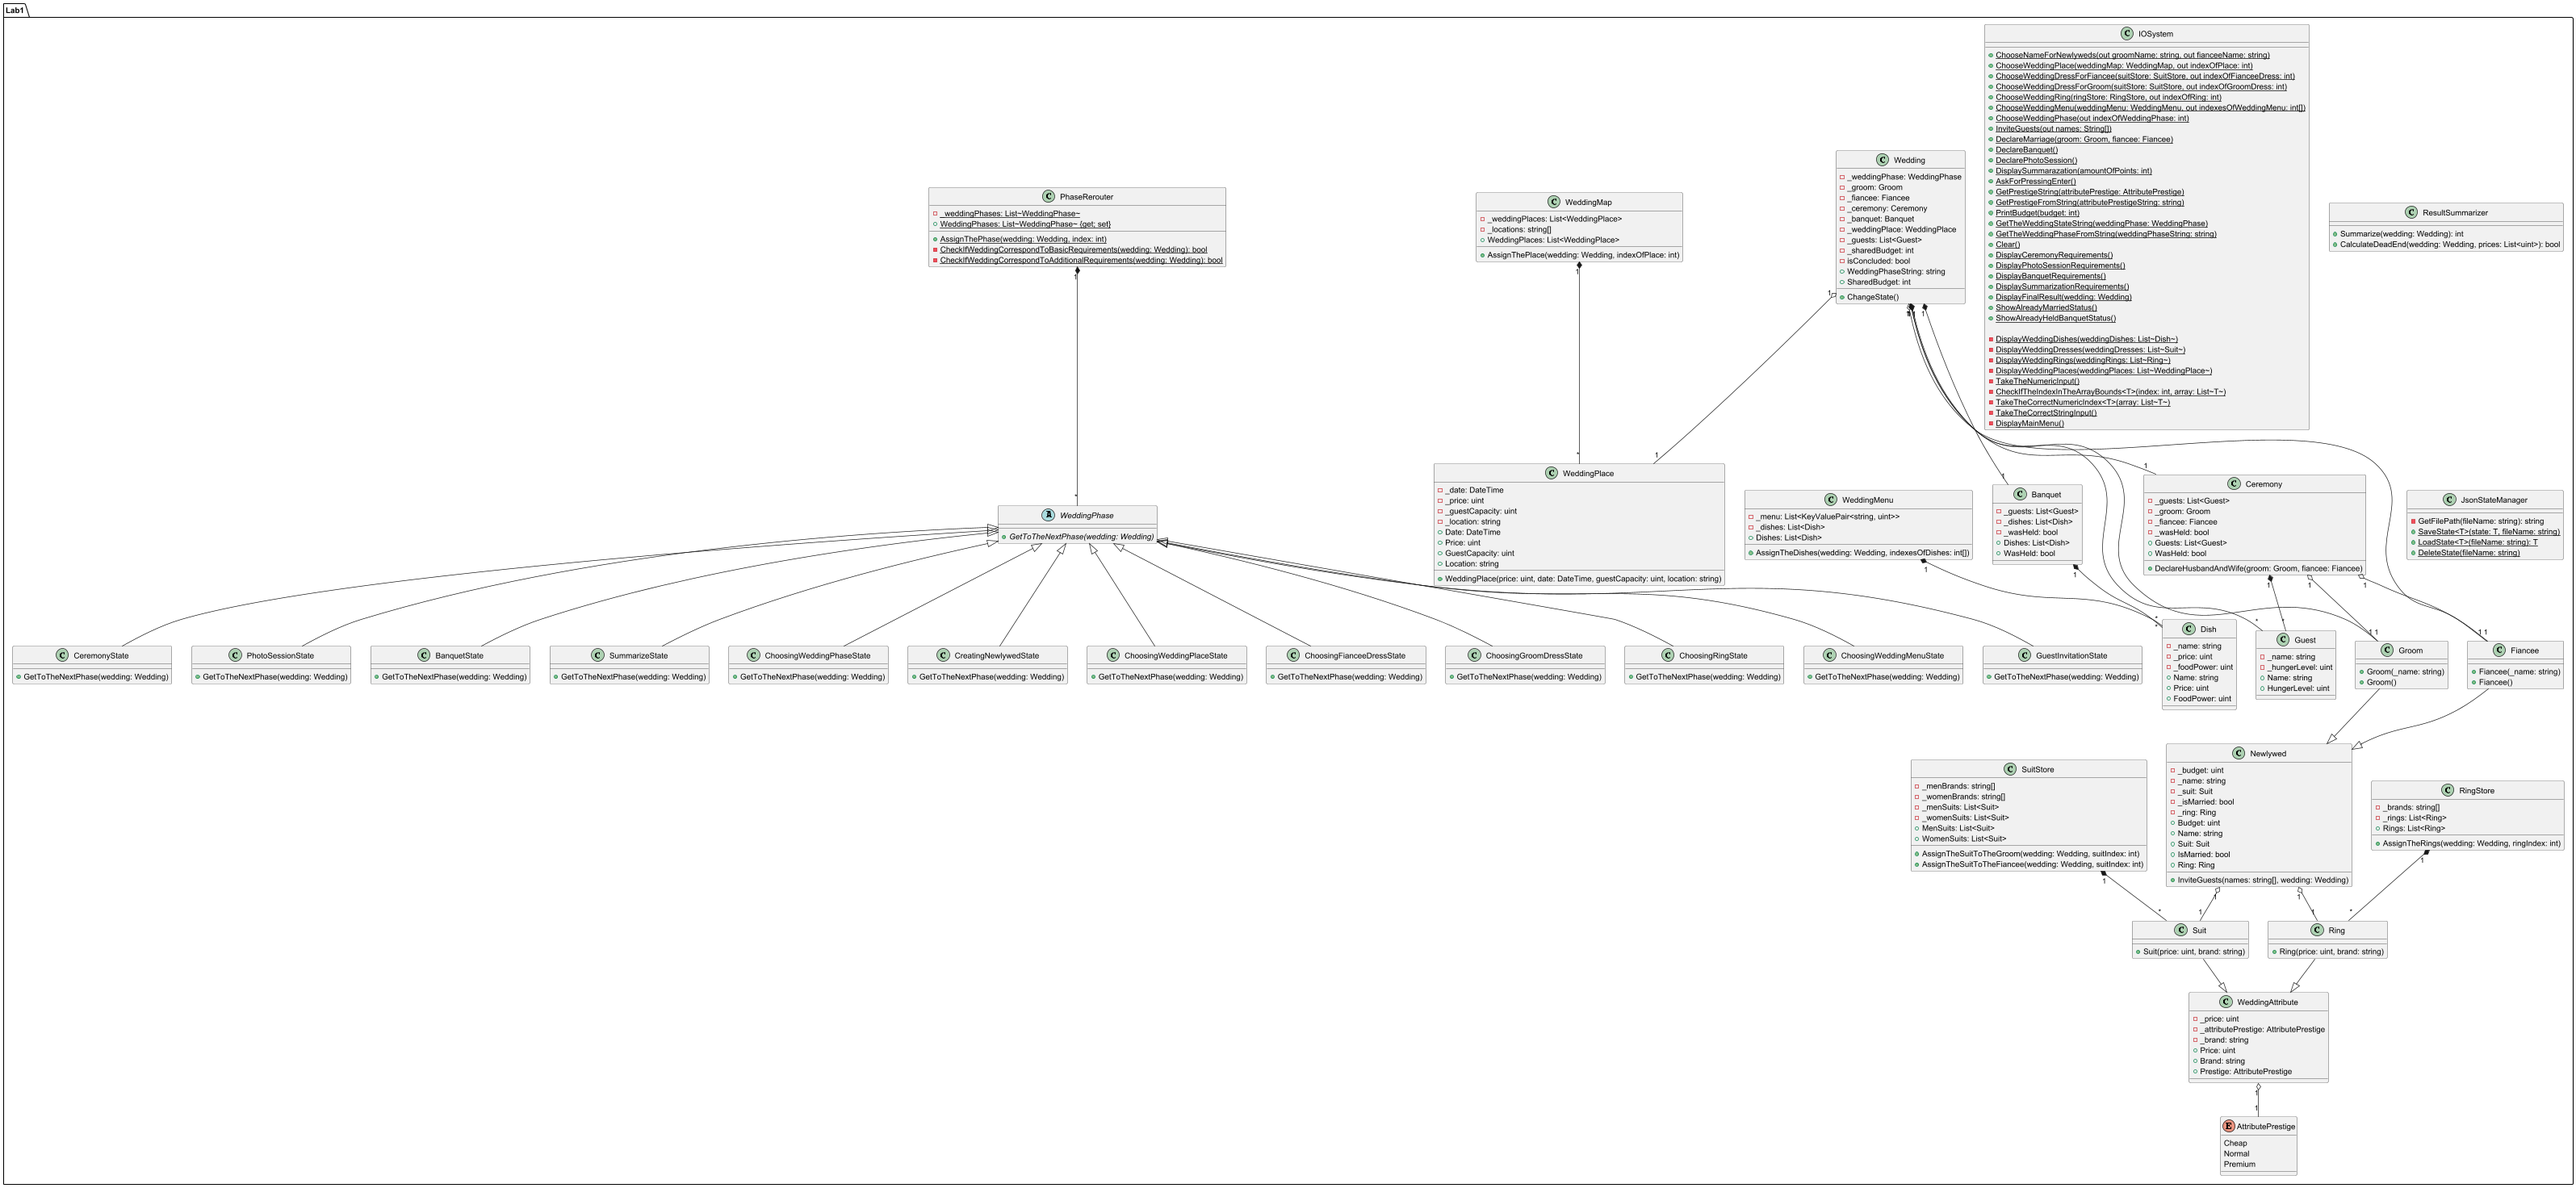
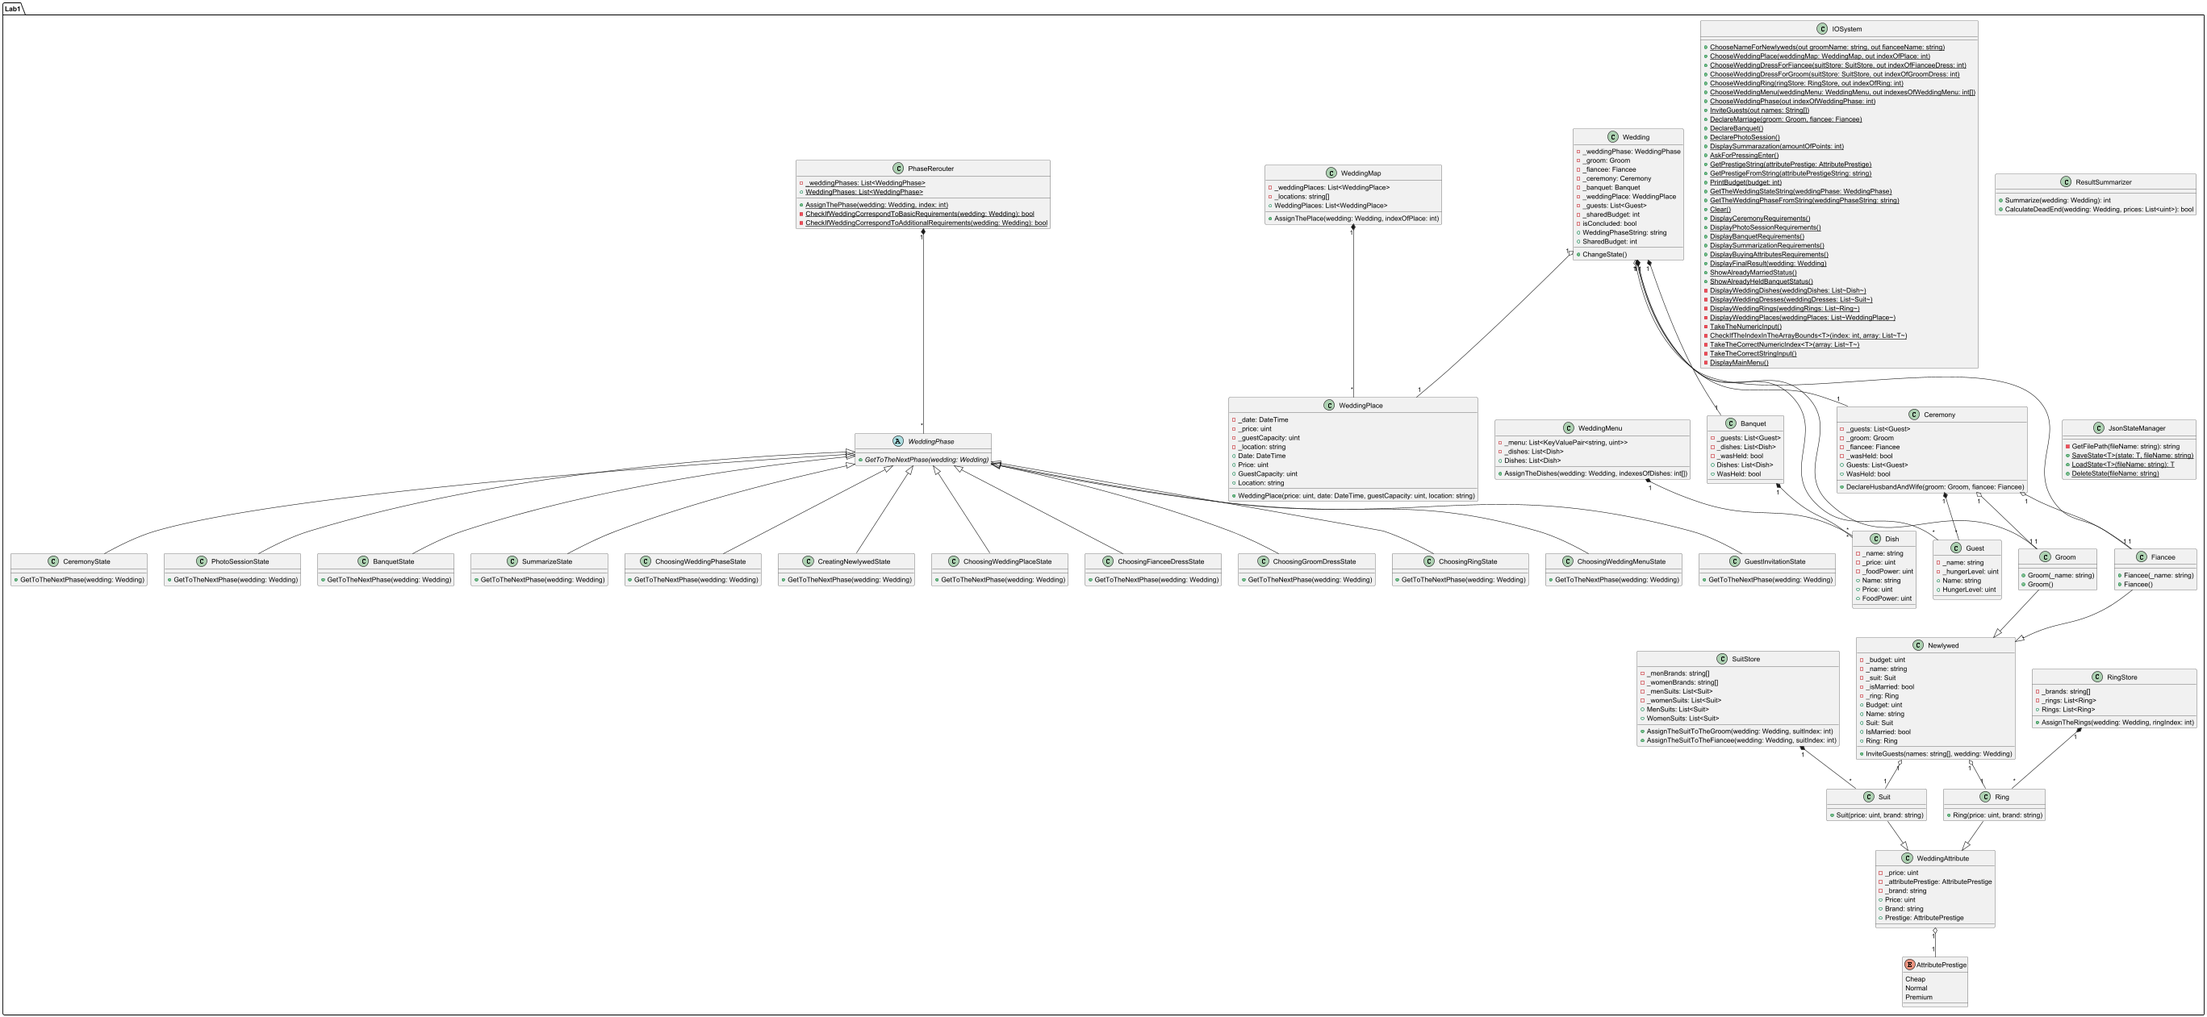
final vesrsion i hope

diff --git a/Lab1/Lab1/PhaseRerouter.cs b/Lab1/Lab1/PhaseRerouter.cs
@@ -10,46 +10,50 @@ public static class PhaseRerouter
     public static void AssignThePhase(Wedding wedding, int index)
     {
         wedding.CurrentWeddingPhase = _weddingPhases[index];
-        
-        if (!CheckIfWeddingCorrespondToBasicRequirements(wedding))
+
+
+        switch (wedding.CurrentWeddingPhase)
         {
-            switch (wedding.CurrentWeddingPhase)
-            {
-                case CeremonyState ceremonyState:
-                    IOSystem.DisplayCeremonyRequirements();
-                    break;
-                case PhotoSessionState photoSessionState:
+            case ChoosingRingState:
+            case ChoosingFianceeDressState:
+            case ChoosingGroomDressState:
+                if (!CheckIfTheWeddingHasGroomAndFiancee(wedding))
+                {
+                    IOSystem.DisplayBuyingAttributesRequirements();
+                    wedding.CurrentWeddingPhase = new ChoosingWeddingPhaseState();
+                }
+                break;
+            case PhotoSessionState:
+                if (!CheckIfWeddingCorrespondToBasicRequirements(wedding))
+                {
                     IOSystem.DisplayPhotoSessionRequirements();
-                    break;
-                case BanquetState banquetState:
-                    IOSystem.DisplayBanquetRequirements();
-                    break;
-                case SummarizeState summarizeState:
-                    IOSystem.DisplaySummarizationRequirements();
-                    break;
-                default:
-                    return;
-            }
-            wedding.CurrentWeddingPhase = new ChoosingWeddingPhaseState();
-        }
-        else if (!CheckIfWeddingCorrespondToAdditionalRequirements(wedding))
-        {
-            switch (wedding.CurrentWeddingPhase)
-            {
-                case CeremonyState ceremonyState:
+                    wedding.CurrentWeddingPhase = new ChoosingWeddingPhaseState();
+                }
+
+                break;
+            case CeremonyState:
+                if (!CheckIfWeddingCorrespondToAdditionalRequirements(wedding))
+                {
                     IOSystem.DisplayCeremonyRequirements();
-                    break;
-                case BanquetState banquetState:
+                wedding.CurrentWeddingPhase = new ChoosingWeddingPhaseState();
+                }
+                break;
+            case BanquetState:
+                if (!CheckIfWeddingCorrespondToAdditionalRequirements(wedding))
+                {
                     IOSystem.DisplayBanquetRequirements();
-                    break;
-                case SummarizeState summarizeState:
+                wedding.CurrentWeddingPhase = new ChoosingWeddingPhaseState();
+                }
+                break;
+            case SummarizeState:
+                if (!CheckIfWeddingCorrespondToAdditionalRequirements(wedding))
+                {
                     IOSystem.DisplaySummarizationRequirements();
-                    break;
-                default:
-                    return;
-            }
-            wedding.CurrentWeddingPhase = new ChoosingWeddingPhaseState();
+                wedding.CurrentWeddingPhase = new ChoosingWeddingPhaseState();
+                }
+                break;
         }
+        
     }
 
     private static bool CheckIfWeddingCorrespondToBasicRequirements(Wedding wedding)
@@ -63,6 +67,13 @@ public static class PhaseRerouter
     private static bool CheckIfWeddingCorrespondToAdditionalRequirements(Wedding wedding)
     {
         if(wedding.Guests.Count == 0 || wedding.Banquet.Dishes.Count == 0)
+            return false;
+        return true;
+    }
+
+    private static bool CheckIfTheWeddingHasGroomAndFiancee(Wedding wedding)
+    {
+        if(wedding.Groom == null || wedding.Fiancee == null)
             return false;
         return true;
     }

diff --git a/Lab1/Lab1/IOSystem.cs b/Lab1/Lab1/IOSystem.cs
@@ -245,7 +245,7 @@ public static class IOSystem
 
     private static bool CheckIfTheIndexInTheArrayBounds<T>(int index, List<T> array)
     {
-        if(index > array.Count || index < 0)
+        if(index > array.Count || index <= 0)
             return false;
         return true;
     }
@@ -313,6 +313,10 @@ public static class IOSystem
     public static void DisplaySummarizationRequirements()
     {
         Console.WriteLine("For summarization you at least must choose names for newlyweds, rings, suits, place, guests and dishes ");
+    }
+    public static void DisplayBuyingAttributesRequirements()
+    {
+        Console.WriteLine("For buying wedding attributes you at least must choose names for newlyweds");
     }
 
     public static void DisplayFinalResult(Wedding wedding)

diff --git a/Lab1/Lab1/GuestInvitationState.cs b/Lab1/Lab1/GuestInvitationState.cs
@@ -6,7 +6,7 @@ public class GuestInvitationState : WeddingPhase
     {
         JsonStateManager.SaveState(wedding, "WeddingState.json");
         IOSystem.InviteGuests(out string[] names);
-        wedding.Fiancee.InviteGuests(names, wedding);
+        Newlywed.InviteGuests(names, wedding);
         IOSystem.Clear();
         wedding.CurrentWeddingPhase = new ChoosingWeddingPhaseState();;
     }

diff --git a/Lab1/Lab1/Newlywed.cs b/Lab1/Lab1/Newlywed.cs
@@ -22,7 +22,7 @@ public class Newlywed
         _name = name;
     }
 
-    public void InviteGuests(string[] names, Wedding wedding)
+    public static void InviteGuests(string[] names, Wedding wedding)
     {
         try
         {

diff --git a/Lab1/README.md b/Lab1/README.md
@@ -1,19 +1,19 @@
 # Модель свадьбы
 
-## 1. Основной класс
+## 1. Основные классы
 
 ### Wedding
 **Описание**: Класс, представляющий свадьбу. Управляет процессами и состояниями.
-- **Свойства**:
-  - `WeddingPhase` – текущее состояние свадьбы.
-  - `Groom` – жених.
-  - `Fiancee` – невеста.
-  - `Ceremony` – церемония.
-  - `Banquet` – банкет.
-  - `WeddingPlace` – место проведения свадьбы.
-  - `Guests` – список гостей.
-  - `SharedBudget` – общий бюджет свадьбы.
-  - `IsConcluded` – завершена ли свадьба.
+- **Поля**:
+  - `_currentCurrentWeddingPhase` – текущее состояние свадьбы.
+  - `_groom` – жених.
+  - `_fiancee` – невеста.
+  - `_ceremony` – церемония.
+  - `_banquet` – банкет.
+  - `_weddingPlace` – место проведения свадьбы.
+  - `_guests` – список гостей.
+  - `_sharedBudget` – общий бюджет свадьбы.
+  - `_isConcluded` – завершена ли свадьба.
 - **Методы**:
   - `ChangeState()` – меняет текущее состояние свадьбы.
 
@@ -21,6 +21,14 @@
 **Описание**: Базовый класс для состояний свадьбы.
 - **Методы**:
   - `GetToTheNextPhase(Wedding wedding)` – переходит в следующее состояние.
+
+  ### PhaseRerouter
+**Описание**: Класс переключающий состояния свадьбы.
+- **Поля**:
+ - `_weddingPhases` – массив состояний свадьбы.
+- **Методы**:
+  - `AssignThePhase(Wedding wedding, int index)` – Выбирает следующее состояние в зависимости от ввода пользователя.
+
 
 ## 2. Состояния свадьбы
 
@@ -57,14 +65,17 @@
 ### SummarizeState
 **Описание**: Подведение итогов, начисление очков.
 
+### ChoosingWeddingPhaseState
+**Описание**: Состояние, в котором пользователю даётся выбор состояния.
+
 ## 3. Атрибуты свадьбы
 
 ### WeddingAttribute
 **Описание**: Базовый класс для свадебных атрибутов (костюмов, колец).
-- **Свойства**:
-  - `Price` – цена.
-  - `Brand` – бренд.
-  - `Prestige` – престижность (Cheap, Normal, Premium).
+- **Поля**:
+  - `_price` – цена.
+  - `_brand` – бренд.
+  - `_attributePrestige` – престижность (Cheap, Normal, Premium).
 
 ### Ring
 **Описание**: Класс обручального кольца.
@@ -78,38 +89,40 @@
 
 ### Guest
 **Описание**: Класс гостя.
-- **Свойства**:
-  - `Name` – имя гостя.
-  - `HungerLevel` – уровень голода.
+- **Поля**:
+  - `_name` – имя гостя.
+  - `_hungerLevel` – уровень голода.
 
 ### Dish
 **Описание**: Блюдо свадебного меню.
-- **Свойства**:
-  - `Name` – название.
-  - `Price` – цена.
-  - `FoodPower` – уровень насыщения.
+- **Поля**:
+  - `_name` – название.
+  - `_price` – цена.
+  - `_foodPower` – уровень насыщения.
 
 ## 5. Магазины и выбор
 
 ### RingStore
 **Описание**: Магазин обручальных колец.
-- **Свойства**:
-  - `Rings` – список доступных колец.
+- **Поля**:
+  - `_rings` – список доступных колец.
+  - `_brands` – список доступных брендов.
 - **Методы**:
   - `AssignTheRings(Wedding wedding, int ringIndex)` – назначает кольца жениху и невесте.
 
 ### SuitStore
 **Описание**: Магазин свадебных костюмов.
-- **Свойства**:
-  - `MenSuits`, `WomenSuits` – списки мужских и женских костюмов.
+- **Поля**:
+  - `_menSuits`, `_womenSuits` – списки мужских и женских костюмов.
+  - `_menBrands`, `_womenBrands` – списки мужских и женских брендов.
 - **Методы**:
   - `AssignTheSuitToTheGroom(Wedding wedding, int suitIndex)` – назначает костюм жениху.
   - `AssignTheSuitToTheFiancee(Wedding wedding, int suitIndex)` – назначает платье невесте.
 
 ### WeddingMenu
 **Описание**: Меню свадебного банкета.
-- **Свойства**:
-  - `Dishes` – список доступных блюд.
+- **Поля**:
+  - `_dishes` – список доступных блюд.
 - **Методы**:
   - `AssignTheDishes(Wedding wedding, int[] indexesOfDishes)` – назначает блюда свадебному банкету.
 
@@ -117,13 +130,16 @@
 
 ### Ceremony
 **Описание**: Проведение свадебной церемонии.
+- **Поля**:
+  - `_guests` – список гостей.
 - **Методы**:
   - `DeclareHusbandAndWife(Groom groom, Fiancee fiancee)` – провозглашает пару мужем и женой.
 
 ### Banquet
 **Описание**: Проведение банкета.
-- **Свойства**:
-  - `Dishes` – блюда банкета.
+- **Поля**:
+  - `_dishes` – блюда банкета.
+  - `_guests` – гости банкета.
 
 ## 7. Подведение итогов
 
@@ -170,8 +186,15 @@
   - `TakeTheNumericInput : int` – извлечение корректного ввода.
   - `CheckIfTheIndexInTheArrayBounds<T>(int index, List<T> array) : bool` – проверка на соответсвие введённого индекса размера массива.
   - `TakeTheCorrectNumericIndex<T>(List<T> array) : int` – извлечение корректного числового ввода.
-  - `Clear()` – очистка консоли.
-
+  - `DisplayMainMenu()` – - вывод меню выбора состояния.
+  - `DisplayCeremonyRequirements()` – вывод требований для проведения церемонии.
+  - `DisplayPhotoSessionRequirements()` – вывод требований для проведения фото сессии.
+  - `DisplayBanquetRequirements()` – вывод требований для проведения банкета.
+  - `DisplaySummarizationRequirements()` – – вывод требований для подведения итогов.
+  - `DisplayBuyingAttributesRequirements()` – – вывод требований для покупки свадебной атрибутики.
+  - `DisplayFinalResult(Wedding wedding)` – вывод итогов.
+  - `ShowAlreadyMarriedStatus()` – вывод статуса проведённой церемонии.
+  - `ShowAlreadyHeldBanquetStatus()` вывод статуса проведённого банкета.
 ---
 
 
